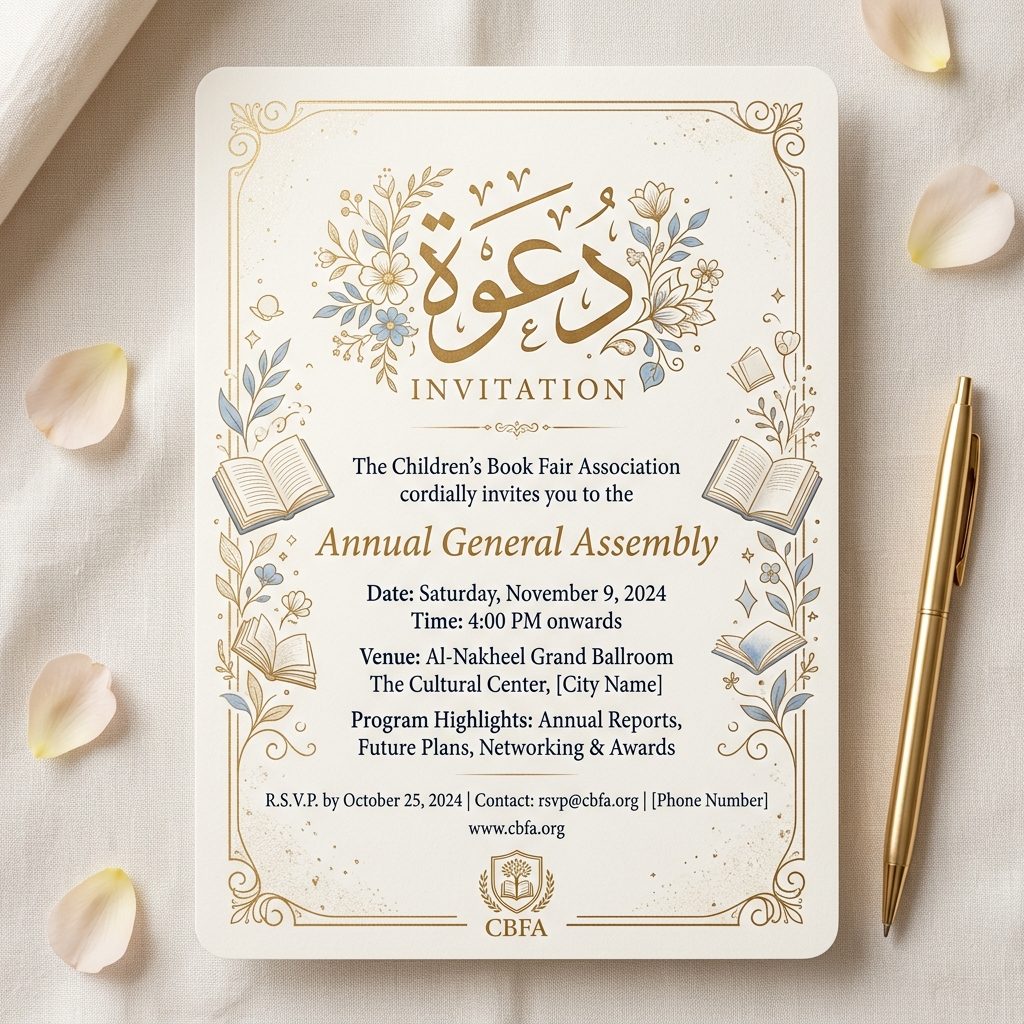
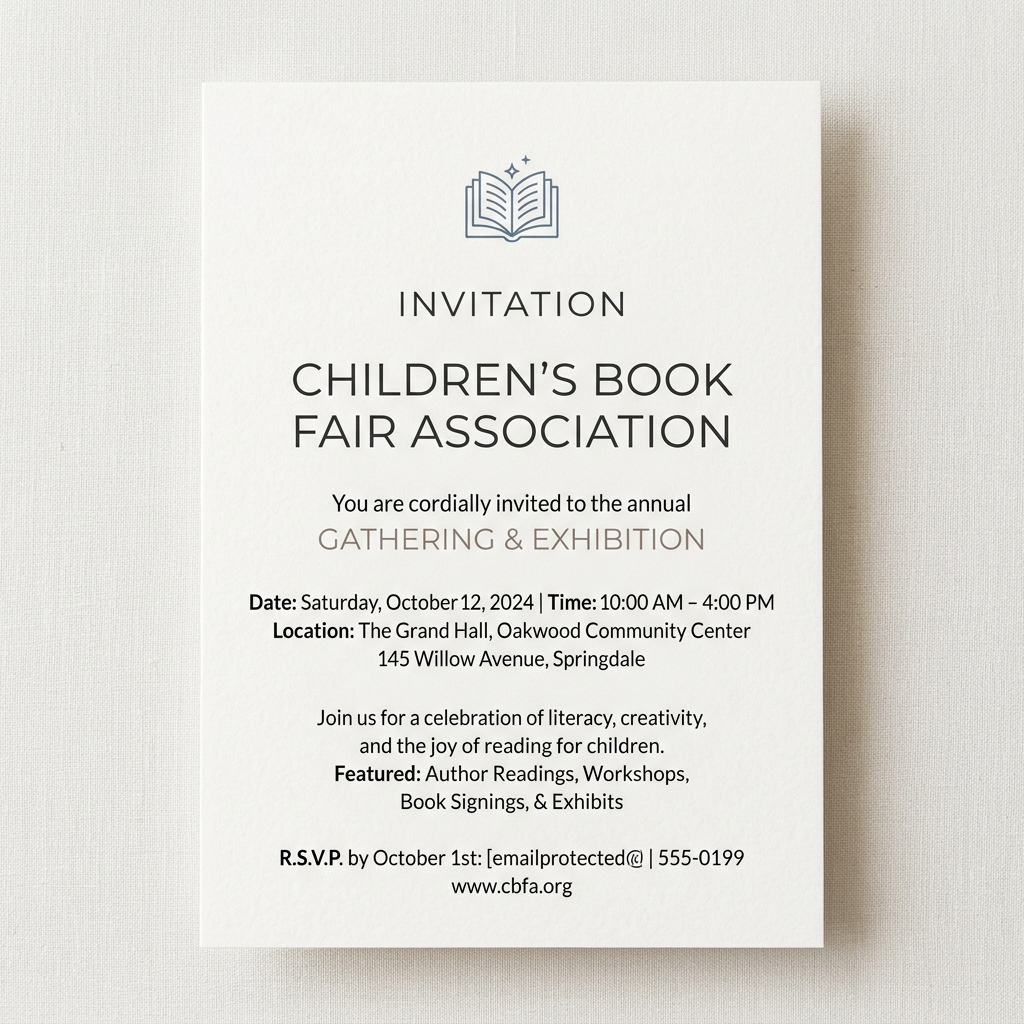
design: update AGA event to past and use minimalist invitation image

diff --git a/src/lib/data.ts b/src/lib/data.ts
@@ -53,7 +53,7 @@ export const events: Event[] = [
       ar: "مقر الجمعية، طريق لفران كم 2، صفاقس، تونس، 3013",
     },
     image: ag2026Image,
-    status: "upcoming",
+    status: "past",
   },
   {
     id: "salon-2026",
